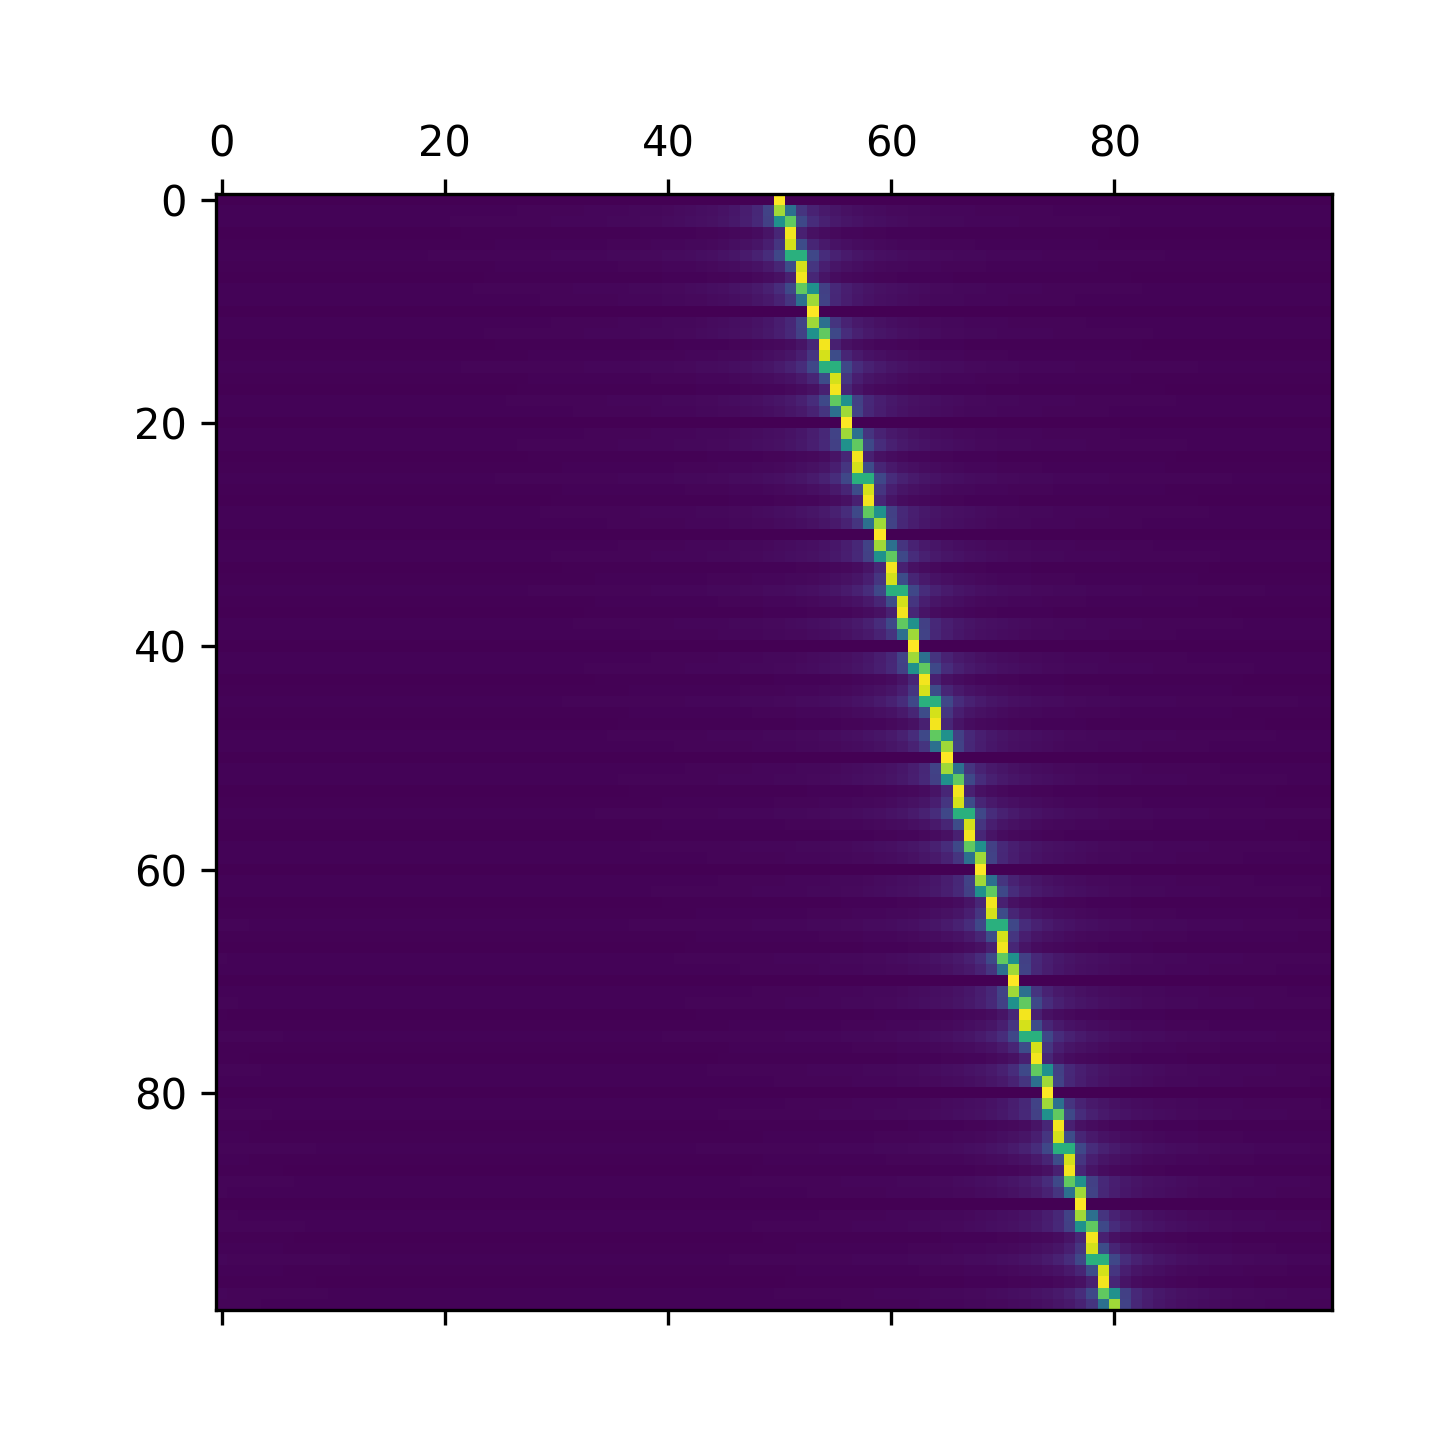
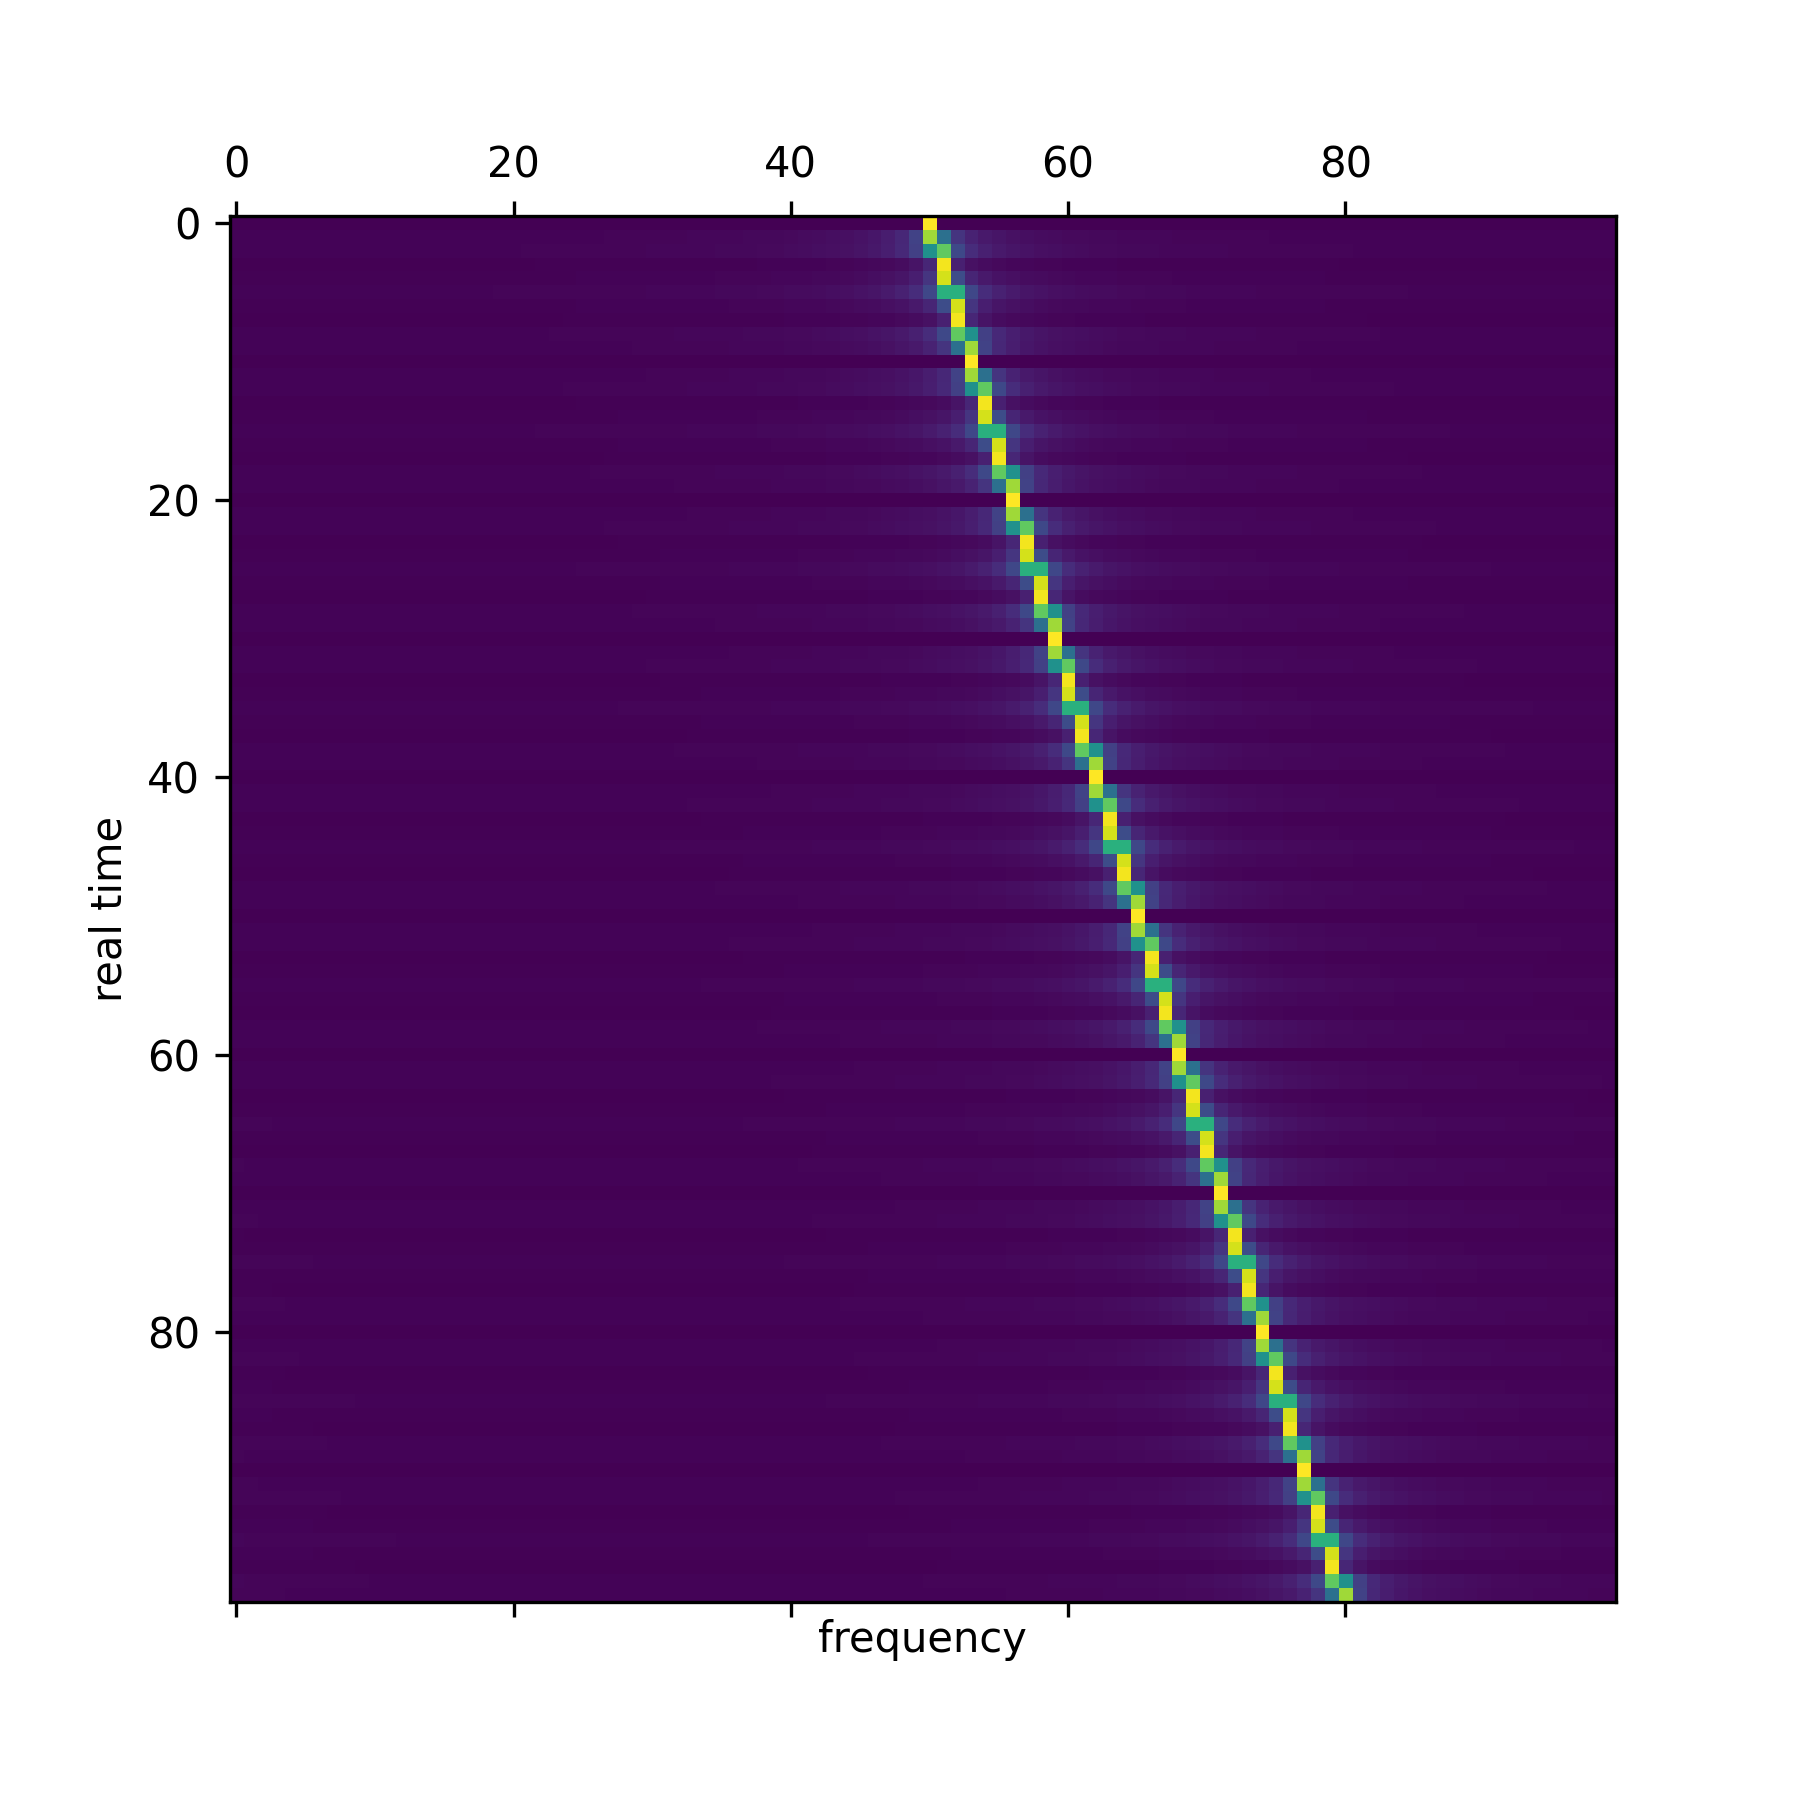
imgs

Changed region(s): [[0.0625, 0.0625, 0.9375, 0.9375], [0.0312, 0.4688, 0.0625, 0.5625]]

diff --git a/radon.py b/radon.py
@@ -13,86 +13,98 @@ sig1 =  sig.Signal(form)
 # plt.show()
 
 fts = np.array([np.fft.fft(form[i,:]) for i in range(n)])
-plt.matshow(abs(fts))
-# plt.savefig("ft_series_1d.png",dpi=300)
-# plt.show()
+
+fig = plt.figure(figsize=(6, 6))
+ax1 = fig.add_subplot()
+ax1.matshow(abs(fts))
+plt.xlabel("frequency")
+plt.ylabel("real time")
+ax1.tick_params(labeltop=True,top=True)
+plt.savefig("ft_series_1d.png",dpi=300)
+plt.show()
 
 rt = np.array([[np.sum([fts[s,int((om1+om2*s))%n] for s in range(n)]) for om1 in range(n)]for om2 in np.linspace(0,1,100)])
 
-plt.matshow(abs(rt))
-# plt.savefig("rt_1d.png",dpi=300)
-# plt.show()
+fig = plt.figure(figsize=(6, 6))
+ax1 = fig.add_subplot()
+ax1.matshow(abs(rt))
+plt.xlabel("frequency")
+plt.ylabel("frequency change rate")
+ax1.tick_params(labeltop=True,top=True)
+plt.yticks([0,20,40,60,80],[0,0.2,0.4,0.6,0.8])
+plt.savefig("rt_1d.png",dpi=300)
+plt.show()
 
 ###
 ### 2D
 ###
 
-n = 40
+# n = 40
 
-def non_stationary_frequency(t1,t2,treal):
-    f1, f2 = 0.25 + 0.005*treal/n, 0.5
-    return np.exp(2j*pi*(f1*t1+f2*t2))
+# def non_stationary_frequency(t1,t2,treal):
+#     f1, f2 = 0.25 + 0.005*treal/n, 0.5
+#     return np.exp(2j*pi*(f1*t1+f2*t2))
 
 
-def snapshot_2d(n, F, t_real, t_indir):
-    '''n - number of direct time datapoints \n
-    treal - range of real time values \n
-    t_indir - corresponding indirect time values'''
-    form = np.zeros((n,n)).astype(complex)
-    for t2, tr in zip(t_indir, t_real):
-        form[t2,:] = np.array([F(t1,t2,tr) for t1 in range(n)])
-    return form[t_indir]
+# def snapshot_2d(n, F, t_real, t_indir):
+#     '''n - number of direct time datapoints \n
+#     treal - range of real time values \n
+#     t_indir - corresponding indirect time values'''
+#     form = np.zeros((n,n)).astype(complex)
+#     for t2, tr in zip(t_indir, t_real):
+#         form[t2,:] = np.array([F(t1,t2,tr) for t1 in range(n)])
+#     return form[t_indir]
 
-n_samples = 40
-sig_3d = []
+# n_samples = 40
+# sig_3d = []
 
-for i in range(n_samples):
-    snapshot_ft = np.fft.fft2(snapshot_2d(n,non_stationary_frequency,range(i*n,(i+1)*n),range(n)))
-    sig_3d.append(snapshot_ft)
+# for i in range(n_samples):
+#     snapshot_ft = np.fft.fft2(snapshot_2d(n,non_stationary_frequency,range(i*n,(i+1)*n),range(n)))
+#     sig_3d.append(snapshot_ft)
 
-sig_3d = np.array(sig_3d).swapaxes(0,2)
-print(sig_3d.shape)
+# sig_3d = np.array(sig_3d).swapaxes(0,2)
+# print(sig_3d.shape)
 
-rt_3d = np.array([[[np.sum([sig_3d[int((f1+n*om*s))%n,f2,s] for s in range(n_samples)]) for om in np.linspace(0,0.01,40)]for f2 in range(n)] for f1 in range(n)])
-print(np.max(rt_3d))
+# rt_3d = np.array([[[np.sum([sig_3d[int((f1+n*om*s))%n,f2,s] for s in range(n_samples)]) for om in np.linspace(0,0.01,40)]for f2 in range(n)] for f1 in range(n)])
+# print(np.max(rt_3d))
 
-import plotly.graph_objects as go
-import numpy as np
+# import plotly.graph_objects as go
+# import numpy as np
 
-values=abs(rt_3d)
+# values=abs(rt_3d)
 
-X, Y, Z = np.mgrid[ 0:n, 0:n, 0:0.4:40j]
+# X, Y, Z = np.mgrid[ 0:n, 0:n, 0:0.4:40j]
 
-fig = go.Figure(data=go.Isosurface(
-    x=X.flatten(),
-    y=Y.flatten(),
-    z=Z.flatten(),
-    value=values.flatten(),
-    opacity=0.2,
-    isomin=0.5,
-    isomax=35000,
-    surface_count=10,
-    caps=dict(x_show=False, y_show=False)
-    ))
+# fig = go.Figure(data=go.Isosurface(
+#     x=X.flatten(),
+#     y=Y.flatten(),
+#     z=Z.flatten(),
+#     value=values.flatten(),
+#     opacity=0.2,
+#     isomin=0.5,
+#     isomax=35000,
+#     surface_count=10,
+#     caps=dict(x_show=False, y_show=False)
+#     ))
 
-fig.write_html("rt_density.html")
-fig.show()
+# fig.write_html("rt_density.html")
+# fig.show()
 
-values=abs(sig_3d)
+# values=abs(sig_3d)
 
-X, Y, Z = np.mgrid[ 0:n, 0:n, 0:n]
+# X, Y, Z = np.mgrid[ 0:n, 0:n, 0:n]
 
-fig = go.Figure(data=go.Isosurface(
-    x=X.flatten(),
-    y=Y.flatten(),
-    z=Z.flatten(),
-    value=values.flatten(),
-    opacity=0.2,
-    isomin=0.5,
-    isomax=1700,
-    surface_count=10,
-    caps=dict(x_show=False, y_show=False)
-    ))
+# fig = go.Figure(data=go.Isosurface(
+#     x=X.flatten(),
+#     y=Y.flatten(),
+#     z=Z.flatten(),
+#     value=values.flatten(),
+#     opacity=0.2,
+#     isomin=0.5,
+#     isomax=1700,
+#     surface_count=10,
+#     caps=dict(x_show=False, y_show=False)
+#     ))
 
-fig.write_html("ft_series_2d.html")
-fig.show()
+# fig.write_html("ft_series_2d.html")
+# fig.show()
